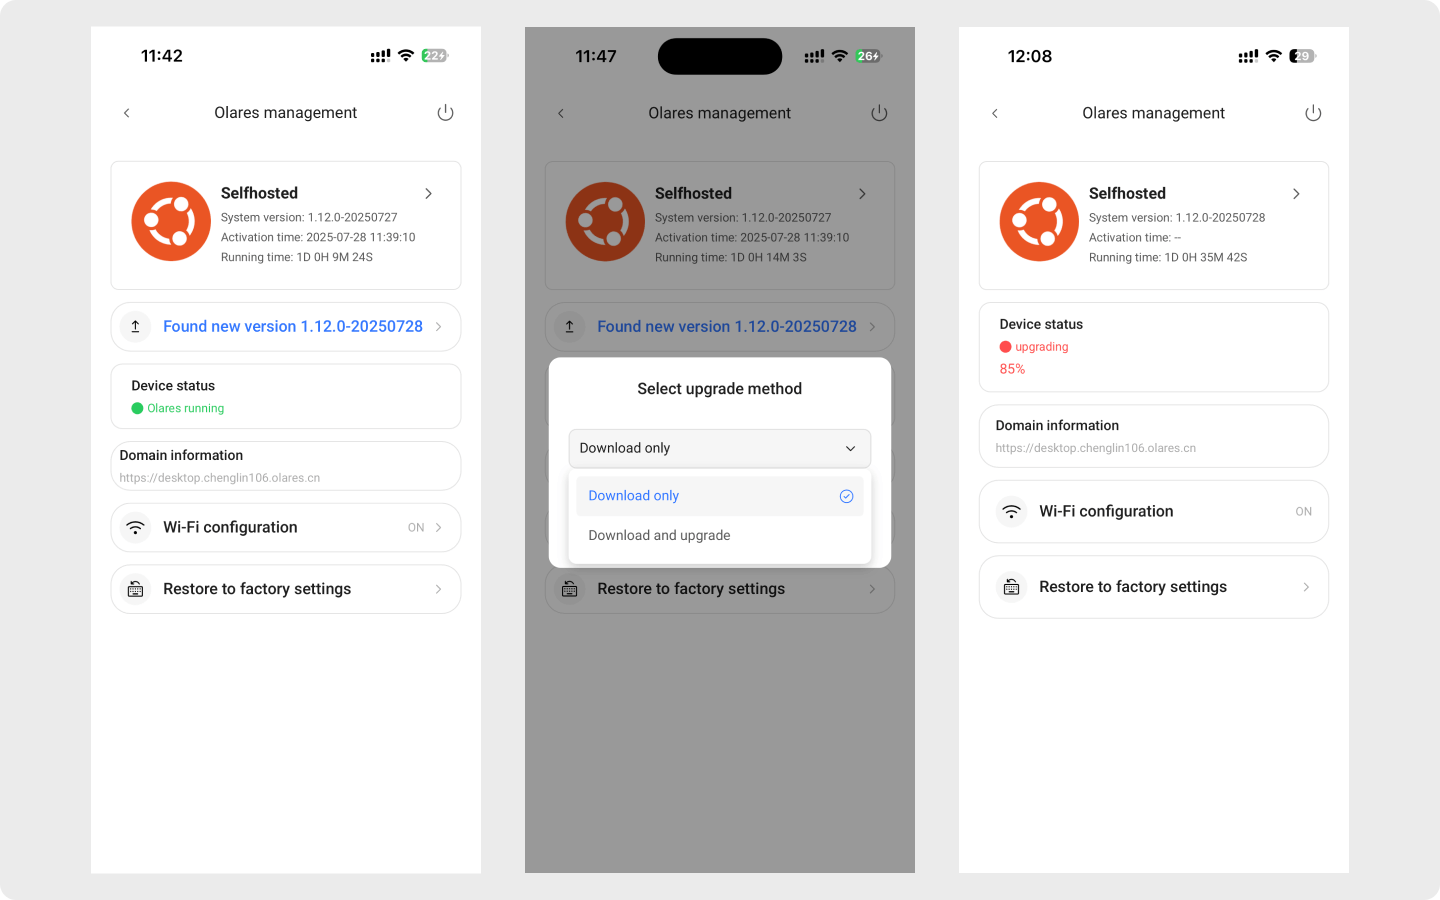
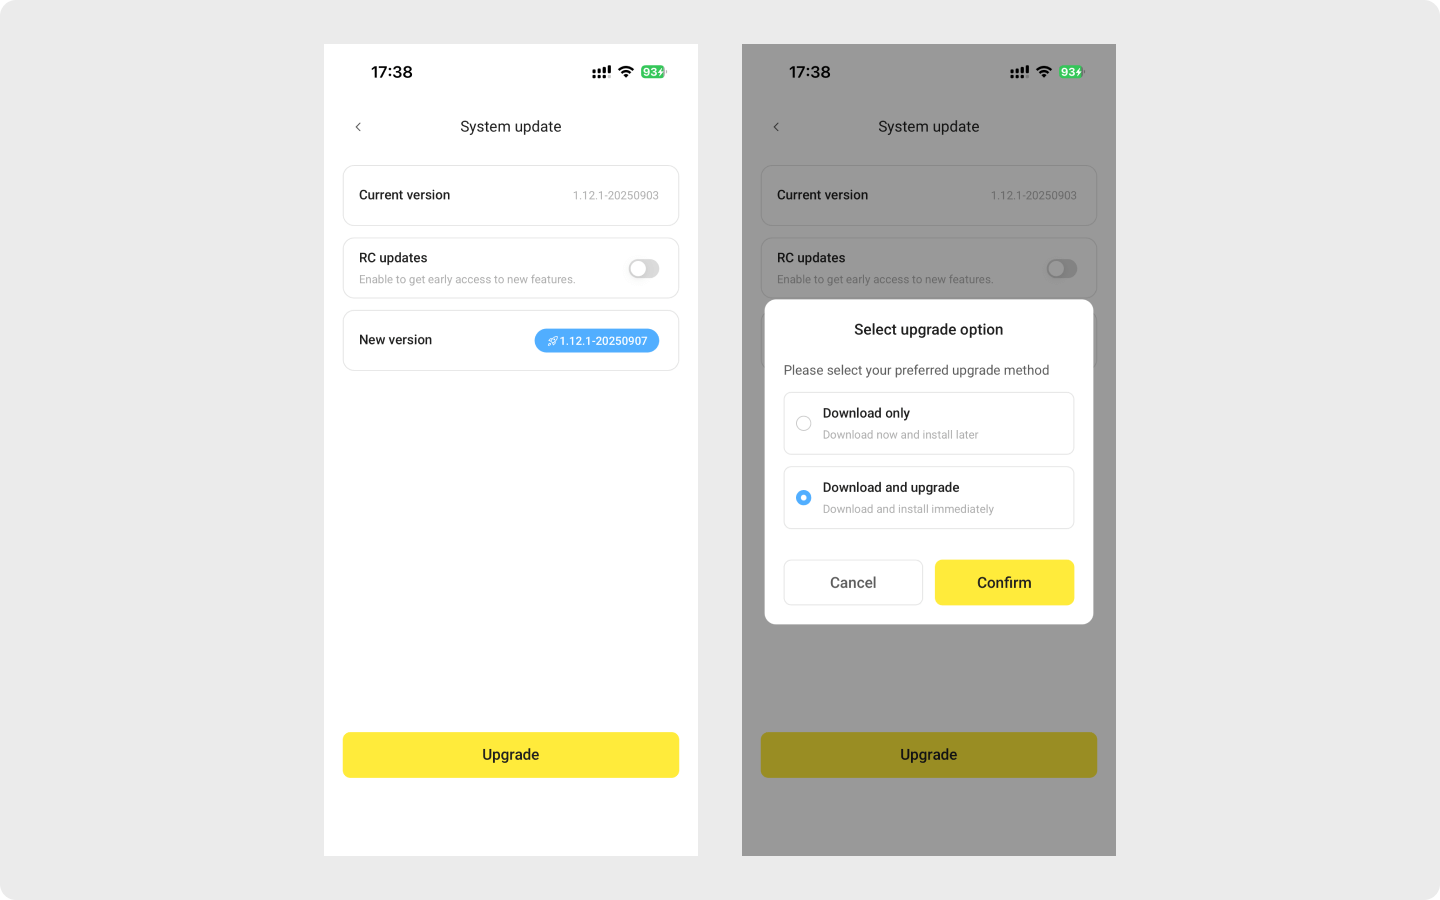
docs: update LarePass topics with new UI layout and upgrade process

diff --git a/docs/manual/larepass/manage-olares.md b/docs/manual/larepass/manage-olares.md
@@ -1,8 +1,8 @@
 # Manage Olares with LarePass
 
-The LarePass app allows you to easily manage your Olares device. You can upgrade Olares，monitor system status, manage network connections, perform remote controls, and access key device information from your phone.
+The LarePass app allows you to easily manage your Olares device. You can upgrade Olares，monitor system status, manage network connections, perform remote controls, and check device information from your phone.
 
-This guide walks you through the core management features available in LarePass.
+This guide walks you through the core management features available on LarePass.
 
 ## Prerequisites
 
@@ -10,15 +10,16 @@ Before you begin, ensure the following:
 
 - You have a valid Olares ID and an activated Olares device.
 - Your Olares device is powered on and connected to a network.
-- Your phone and Olares device are on the same local network.
 - Your current account has administrator permissions.
 
 ## Access Olares management
 
-To access the Olares management page:
+The **Olares management** page is the central hub for using LarePass to manage your Olares device. To access **Olares management**:
 
-1. Open LarePass app, and go to **Settings**.
-2. Tap your Olares ID to enter the Olares management interface.
+![Olares management](/images/manual/larepass/olares-management.png#bordered)
+
+1. Open LarePass app and go to **Settings**.
+2. In the **My Olares** card, tap **System** to enter the **Olares management** page.
 
 ## Upgrade Olares
 
@@ -26,17 +27,23 @@ To access the Olares management page:
 Only Olares admin can perform system updates. Updates will apply to all members within the same Olares cluster.
 :::
 
-When a new version of Olares is available, you’ll see a `Found new version` prompt on the **Olares management** page.
+When a new Olares version is available, you will see a "New version found" prompt under **Olares management** > **System update**. To install a system update:
 
 ![Upgrade Olares](/images/manual/larepass/olares-upgrade.png#bordered)
 
-1. Tap on the version prompt, for example, `Found new version 1.12.0-20250728`.
-2. Select an upgrade method:
-    - **Download and upgrade**: Olares will download the update package and install it immediately. The system is temporarily unavailable during the upgrade process.
-    - **Download only**: Only downloads the update package. You can trigger the upgrade later when convenient, and Olares remains available during the download.
 
-3. Confirm the option. A progress indicator on LarePass will show the operation status. If you selected **Download only**, you need to tap **Upgrade now** to start upgrade after download completes.
-4. Wait for the upgrade to complete. Olares will resume normal operation when the upgrade finishes. You can verify the update by checking the **System version** shown in the device card at the top of the **Olares management** page.
+
+1. On the **Olares management** page, tap **System update**.
+
+2. On the **System update** page, confirm the available version in the **New version** field, then click **Upgrade**.
+
+3. In the pop-up dialog, choose your upgrade method and tap **Confirm**:
+
+   - **Download only**: Olares will only download the update package. Once complete, you must manually click **Upgrade** on the **System update** page to begin the installation. During download, you can continue using Olares.
+
+    - **Download and upgrade**: Olares will immediately download and install the update package. The system will be temporarily unavailable during the upgrade process.
+
+4. Wait for the upgrade to finish. You will see a success message, and Olares will automatically resume normal operation.
 
 ## Remote device control
 
@@ -44,16 +51,24 @@ In the upper-right corner of the Olares management page, tap the <i class="mater
 
  ![Device control](/images/manual/larepass/device-control.png)
 
-- **Restart device** – Reboots the device. Status will show `Restarting`... and revert to `Olares Running` after approximately 5–8 minutes.
-- **Remote shutdown** – Powers off the device. Status will display `Powered off`. You must turn it on manually afterward.
+- **Restart device** – Your Olares will restart. If your phone is on the same network as Olares, its status will show `Restarting` `and will return to `Olares running` in approximately 5–8 minutes.
+- **Remote shutdown** – Your Olares will power off. If your phone is on the same network as Olares, its status will show `Powered off`.  Remote operations are not possible after shutdown, and the device must be turned on manually.
+
+::: tip Note
+If you perform a restart from a network outside of Olares, the **My Olares** card will be inaccessible during the restart and will return to normal after startup is complete.
+:::
 
 ## Configure network
 
 Tap **Wi-Fi configuration** to view or modify the current network settings of your Olares device.
 
+:::tip Same network required
+Make sure your phone and Olares are on the same network.
+:::
+
 ### Switch from wired to wireless network
 
-If Olares was activated over Ethernet, you can switch to the Wi-Fi on the same network:
+If Olares was activated over wired Ethernet, you can switch to the Wi-Fi on the same network:
 
 ![Wi-Fi switch](/images/manual/larepass/switch-wifi.jpg)
 
@@ -72,22 +87,18 @@ To ensure an optimal and stable connection, we recommend using a wired network w
 If your Olares device moves to a different network:
 
 1. Connect the Olares device to your wired network via Ethernet and power it on. Ensure your phone is connected to the Wi-Fi for that same network.
-2. Open LarePass on your phone and go to the **Olares management** page.
+2. Open LarePass on your phone and go to **Settings** > **My Olares** > **System** > **Olares management** page.
 3. LarePass will automatically scan Olares device within the network. When found, Olares will appear as `IP changing` in LarePass.
 4. Once IP update finishes, the status will revert to `Olares running`. This process may take 5–10 minutes.
 
 ### Set Wi-Fi via Bluetooth
 
-If you can't connect your Olares to a wired network during activation, or if Olares is on a different wired network than your phone, LarePass won't be able to find it. This can prevent you from completing activation or device management. In such cases, use the **Bluetooth network setup** feature to connect your Olares to your phone's Wi-Fi network.
+If your Olares cannot connect to a wired network during activation, or if it's connected to a wired network that's different from your phone, you may be unable to complete activation with LarePass or perform device management tasks that require the same network (such as Wi-Fi configuration or a factory reset). In this situation, you can use the Bluetooth network setup feature to connect Olares to your phone's Wi-Fi network.
  ![Bluetooth network](/images/manual/larepass/bluetooth-network.png)
 
 1. On the **Olares not found** page, tap the **Bluetooth network setup** option. LarePass will use your phone's Bluetooth to scan for the nearby Olares device.
 2. When your device appears in the list, tap **Network setup**.
 3. Select the Wi-Fi network your phone is currently connected to. If it's password-protected, enter the password and tap **Confirm**.
-
-    ::: tip Note
-    If you select a Wi-Fi network different from the one your phone is on, LarePass won't be able to detect your Olares device after it connects.
-    :::
 
 4. Olares will start switching the network.Once the process is complete, a success message will appear. If you return to the Bluetooth network setup page, you'll see that Olares' IP address has changed to your phone's Wi-Fi subnet. 
    ::: tip Note
@@ -95,7 +106,19 @@ If you can't connect your Olares to a wired network during activation, or if Ola
    :::
 5. Go back to the device scan page and tap **Discover nearby Olares** to find your device. You can now proceed with [device activation](activate-olares.md) or device management as instructed in this document.
 
+## View device information
+
+On the **Olares management** page, tap the device information area at the top to access device details, which includes the following information:
+
+- Hardware details 
+- System version 
+- Current network connection status, including internal and external IP addresses.
+
 ## Uninstall Olares
+
+:::tip Same network required
+Make sure your phone and Olares are on the same network.
+:::
 
 This will reset your device to the prepared installation phase, where you can scan the LAN to re-install and activate Olares. 
 
@@ -105,7 +128,7 @@ This will reset your device to the prepared installation phase, where you can sc
 This will permanently delete all your accounts info and data. Proceed with caution.
 :::
 
-1. On the **Olares management** page, tap **Restore to Factory Settings**.
+1. On the **Olares management** page, tap **Restore to factory settings**.
 
 2. Review the risk prompt and enter your local LarePass lock screen password. If not set, you will be prompted to set one first.
 

diff --git a/docs/manual/larepass/integrations.md b/docs/manual/larepass/integrations.md
@@ -25,19 +25,19 @@ Olares Space is a cloud hosting service for Olares that shares the same account 
 
 ### Step 2. Authorize Olares Space
 
-1. In the LarePass app, go to **Settings** > **Integration**.
+1. In the LarePass app, go to **Settings** > **LarePass settings** > **Integration**.
 2. Tap <i class="material-symbols-outlined">add</i> in the top-right corner and select **Space** to add your Olares Space account.
 
 ### Step 3. Associate Olares ID
 Associating your Olares ID allows you to import a blockchain wallet, which is necessary for using NFT images as unique avatars in your profile.
 
-1. Open the Settings app from the Dock or Launchpad.
+1. In Olares, open the Settings app from the Dock or Launchpad.
 2. Select **Integration** from the left sidebar.
 3. Click on the Olares Space card on the right to view details.
 4. Click **Bind**. This will trigger a confirmation prompt in LarePass app.
 5. Open the LarePass app. You should see a confirmation prompt. If not:
 
-   a. Go to **Settings** > **Integration**.
+   a. Go to **Settings** > **LarePass settings** > **Integration**.
 
    b. Tap the Olares Space card.
 
@@ -50,7 +50,7 @@ OAuth-based integrations like Google Drive and Dropbox require initial setup via
 
 1. Open LarePass on your mobile device.
 
-2. Tap **Settings** > **Integration**, then tap <i class="material-symbols-outlined">add</i> in the top-right corner.
+2. Tap **Settings** > **LarePass settings** > **Integration**, then tap <i class="material-symbols-outlined">add</i> in the top-right corner.
 
 3. Select either Google Drive or Dropbox.
 
@@ -63,7 +63,7 @@ Once authorized, you'll see the connected account in the integration list. You c
 Services like AWS S3 and Tencent Cloud COS require setup using API keys (Access Key & Secret Key). You can do this directly from the LarePass app or from the **Integration** settings within Olares:
 
 1. Open LarePass on your mobile device.
-2. Tap **Settings** > **Integration**, then tap <i class="material-symbols-outlined">add</i> in the top-right corner.
+2. Tap **Settings** > **LarePass settings** > **Integration**, then tap <i class="material-symbols-outlined">add</i> in the top-right corner.
 3. Select AWS S3 or Tencent COS.
 4. Enter your Access Key, Secret Key, and other required credentials, then tap **Confirm**.
 
@@ -79,6 +79,6 @@ You can always reconnect later if needed.
 
 To disconnect an integration from LarePass:
 
-1. Open LarePass app, and go to **Settings** > **Integration**.
+1. Open LarePass app, and go to **Settings** > **LarePass settings** > **Integration**.
 2. Tap on the integration you wish to remove.
 3. Tap <i class="material-symbols-outlined">more_horiz</i> in the top-right corner, and tap **Delete**.

diff --git a/docs/manual/larepass/back-up-mnemonics.md b/docs/manual/larepass/back-up-mnemonics.md
@@ -24,9 +24,9 @@ After setting up, you can choose to enable biometric unlock for more secure and 
 :::
 
 ## Reveal and back up your mnemonic phrase
-1. Open the LarePass app, and go to **Settings** > **Account** page. 
-2. Click **Backup now**.
-3. Read the risk warning about losing your mnemonic phrase and click **Start**. 
+1. Open the LarePass app, and go to **Settings** > **LarePass settings** > **Safety** page.
+2. Tap **Mnemonic phase**.
+3. Read the risk warning and click **Start**. 
 4. Click to view the 12-word mnemonic phrase, and enter your local password for identity verification.
 5. Securely record the mnemonic phrase and store it in a safe place.
 6. Click **Next**.
@@ -52,4 +52,4 @@ To prevent this, we strongly recommend taking these precautions:
 * **Multi-device backup**: Use LarePass's Vault to encrypt and save your mnemonic phrase on multiple devices. You only risk losing your mnemonic phrase if all these devices are lost.
 
 ### I've activated Olares, why do I get a password error when trying to view my mnemonic phrase in LarePass?
-If you encounter a password error, it may be because you haven't set a local password. Open the LarePass app, go to **Settings** > **Security**, and set a local password. Then try the backup process again.
+If you encounter a password error, it may be because you haven't set a local password. Open the LarePass app, go to **Settings** > **LarePass settings** > **Security**, and set a local password. Then try the backup process again.

diff --git a/docs/manual/get-started/activate-olares.md b/docs/manual/get-started/activate-olares.md
@@ -17,7 +17,7 @@ Use the Wizard URL and initial one-time password to activate. This process conne
 4. Activate Olares using LarePass app.
 
    a. Open LarePass app, and tap **Scan QR code** to scan the QR code on the Wizard page and complete the activation.
-   :::warning Same network required
+   :::warning Same network required for admin users
    To avoid activation failures, ensure that both your phone and the Olares device are connected to the same network.
    :::
 
@@ -25,14 +25,8 @@ Use the Wizard URL and initial one-time password to activate. This process conne
 
    b. Reset the login password for Olares by following the on-screen instructions on LarePass.
 
-   ::: tip Reactivate Olares with the same Olares ID
-
-   If you have reinstalled Olares, the original instance becomes unavailable. To reactivate Olares with the same Olares ID:
-      
-   1.	Open LarePass on your phone, and you can see a red prompt: "No active Olares found".
-   2.	Tap **Learn more**, then **Reactivate** to enter the QR scan page.
-   3.	Tap **Scan QR code** to scan the QR code on the wizard page and activate Olares.
+   ::: tip 
+   If you have reinstalled Olares, the original instance becomes unavailable. You need to [reactivate Olares](../larepass/activate-olares.md#reactivate-olares-with-the-same-olares-id) to use the same Olares ID.
    :::
-
 
 After successful setup, the LarePass app will automatically go to the home screen, and the Wizard will redirect you to the login page.

diff --git a/docs/zh/manual/get-started/activate-olares.md b/docs/zh/manual/get-started/activate-olares.md
@@ -17,21 +17,16 @@ search: false
 4. 使用 LarePass 应用激活 Olares。
 
    a. 打开 LarePass 应用，点击**扫描二维码**，扫描向导页面上的二维码完成激活。
-   :::warning 检查网络连接
-   为避免激活失败，请确保你的手机和 Olares 设备连接到同一网络。
+   :::warning 网络要求
+   为避免激活失败，管理员用户需确保手机和 Olares 设备连接到同一网络。
    :::
 
    ![激活 Olares](/images/manual/get-started/activate-olares.png#bordered)
 
    b. 按照 LarePass 上的提示重置 Olares 的登录密码。
 
-   ::: tip 使用相同的 ID 重新激活 Olares
-
-   如果你重新安装了 Olares，原有实例将不可用。要使用同一个 ID 重新激活 Olares：
-   1.	在手机上打开 LarePass，你将看到红色提示：“未发现运行中的的 Olares”。
-   2.	点击**了解更多** > **重新激活**，进入二维码扫描页面。
-   3.	点击**扫描二维码**，扫描向导页面上的二维码以完成激活。
+   ::: tip 提示
+   如果你重新安装了 Olares，原有实例将不可用。你可以使用同一个 ID [重新激活 Olares](../larepass/activate-olares.md#使用同一-olares-id-重新激活)：
    :::
-
 
 设置成功后，LarePass 应用会自动返回主界面，向导页面则会跳转到登录界面。

diff --git a/docs/manual/larepass/private-network.md b/docs/manual/larepass/private-network.md
@@ -36,12 +36,12 @@ For different LarePass download options, visit [the official page](https://olare
 ![VPN](/images/manual/larepass/vpn.jpg)
 
 ### On LarePass mobile client
-1. Open LarePass, go to **Settings** > **Account**.
-2. Turn on the VPN switch.
+1. Open LarePass, and go to **Settings**.
+2. In the **My Olares** card, Toggle on the VPN switch.
 
 ### On LarePass desktop client
 1. Open LarePass, click on the avatar area in the top left corner of the main interface.
-2. Turn on the switch for **VPN connection** in the pop-up panel.
+2. Toggle on the switch for **VPN connection** in the pop-up panel.
 
 Devices with activated VPN will use the VPN connection to access Olares, whether through the LarePass client or a browser.
 

diff --git a/docs/manual/larepass/activate-olares.md b/docs/manual/larepass/activate-olares.md
@@ -50,8 +50,8 @@ When you log in to Olares, you will be promoted to complete the two-factor verif
 
   1. On the Wizard page, select **Verify using one time password from LarePass**.
   2. Open LarePass on your phone and go to **Settings**.
-  3. Tap the authenticator on the top to generate the one time verification code.
-  4. Return to your Wizard page and enter the cod e to complete the login.
+  3. In the **My Olares** card, Tap the authenticator to generate the one time verification code.
+  4. Return to your Wizard page and enter the code to complete the login.
 
 ::: tip Note
 The verification code is time-sensitive. Ensure you enter it before it expires. If it does, you will need to generate a new code.
